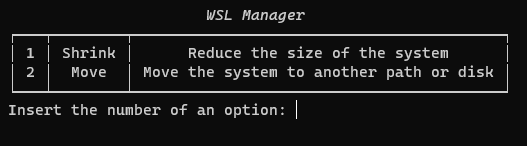
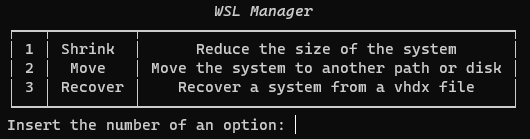
docs: :memo: update readme with recover command

diff --git a/README.md b/README.md
@@ -24,6 +24,7 @@ It allows you to shrink your distro and move it to another drive or path
 
 - Shrink your distro
 - Move your distro to another drive or path
+- Restore your distro from a vhdx file
 
 ## Installation
 
@@ -79,6 +80,10 @@ If you choose `windows registry`, the code will move the `ext4.vhdx` file to the
 </details>
 
 <a name="move-strategies">![Move strategies](docs/img/move-strategies.png)</a>
+
+### Restoring
+
+When selecting the restore option, you will select the vhdx file of the distro you want to restore. After that, you will input the name of the distro and others information.
 
 ## License
 
